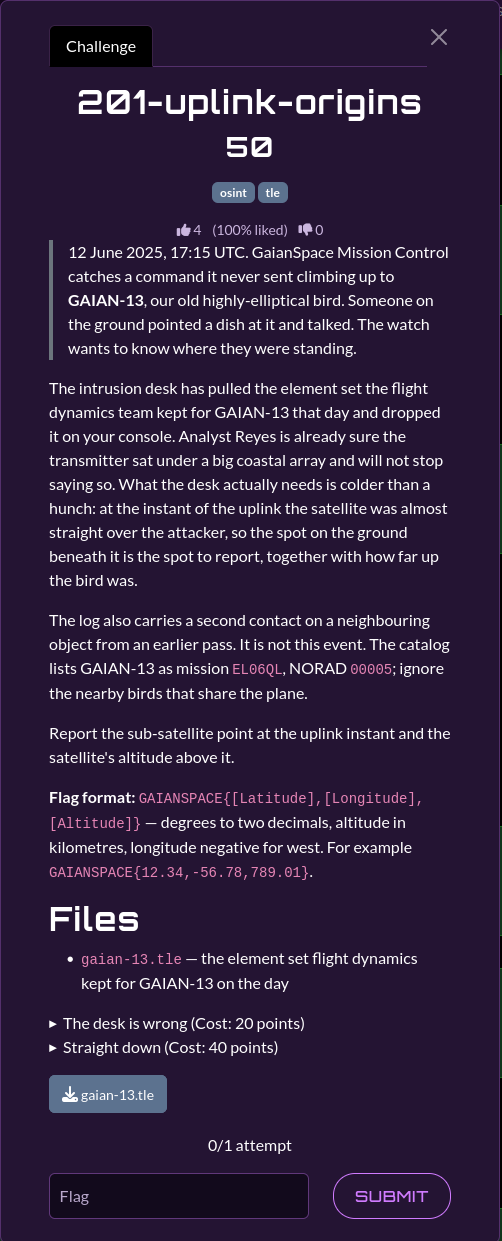
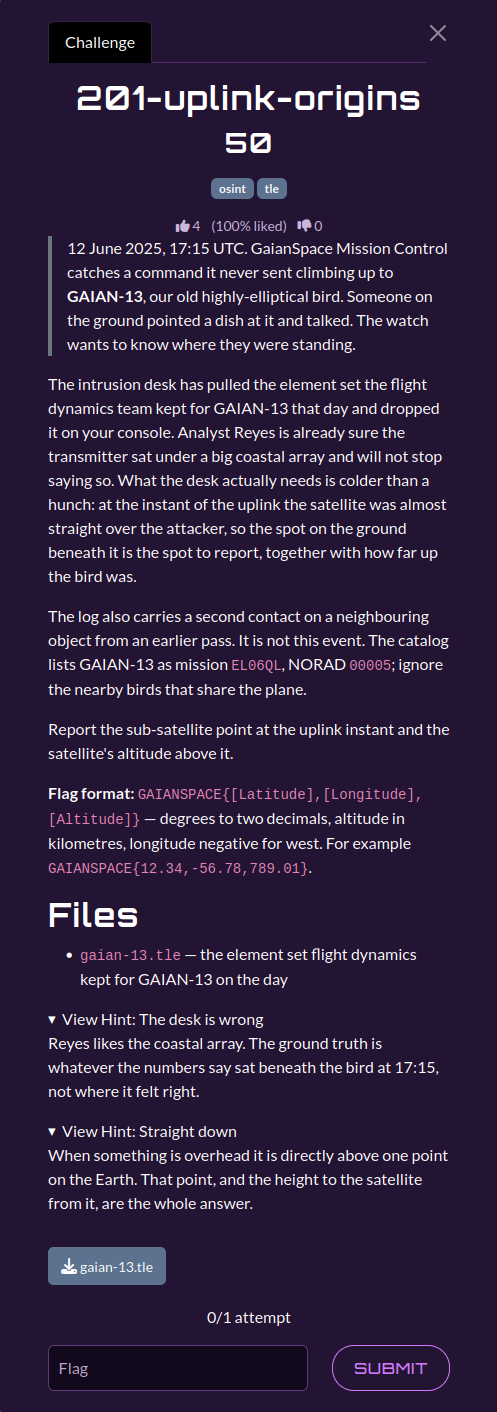
Update README.md

diff --git a/02-echoes-of-espionage/206-gpredict-secret/README.md b/02-echoes-of-espionage/206-gpredict-secret/README.md
@@ -17,6 +17,13 @@ Put the signature back together.
 
 **Attachments:** `gaian-13-relay.tle` — the second element set left on the laptop, `pass_capture.png` — a screen grab of a pass, `relay.mod` — the saved tracking module, `vela.qth` — the station location file
 
+## Hints
+
+Two hints were released during the event:
+
+1. **Signed in three** — No one file has the whole thing. One fragment rides with the object, one is noted in the saved module, one is written on the screen grab.
+2. **Say it out loud** — The three fragments are not in random order. Put them together and they read like something a watcher would be called.
+
 ## Solution
 
 ### Steps

diff --git a/02-echoes-of-espionage/205-backdoor-from-space/README.md b/02-echoes-of-espionage/205-backdoor-from-space/README.md
@@ -17,6 +17,13 @@ Recover the attacker's next move.
 
 **Attachments:** `ground_c2_traffic.pcap` — the span monitor's capture, just after the downlink
 
+## Hints
+
+Two hints were released during the event:
+
+1. **Read the whole exchange** — The reply is scrambled with a stream cipher. The caller handed over the material for that scramble in its own request, in a header that does not belong on a normal upload.
+2. **Nothing labels it** — No field tells you the cipher or the key. The reply is base64 over raw ciphertext; the key is the session value the caller sent. A common stream cipher and that value is the whole trick.
+
 ## Solution
 
 ### Steps

diff --git a/02-echoes-of-espionage/207-lost-signal-mars/README.md b/02-echoes-of-espionage/207-lost-signal-mars/README.md
@@ -17,6 +17,13 @@ Recover what the distant transmitter kept repeating.
 
 **Attachments:** `beacon_notes.md` — the operator's settings for the capture, `deep_space_capture.f32` — the raw recording from the post
 
+## Hints
+
+Two hints were released during the event:
+
+1. **Find the beat** — The burst repeats on a fixed stride, but nothing tells you the stride. Let the recording line up against a shifted copy of itself and the stride will show.
+2. **Changes, not levels** — Once the repeats are stacked and the noise is gone, do not read the levels. Read where the signal flips and where it holds. One of those is a one.
+
 ## Solution
 
 ### Steps

diff --git a/02-echoes-of-espionage/203-signal-secrets/README.md b/02-echoes-of-espionage/203-signal-secrets/README.md
@@ -17,6 +17,13 @@ Work the recording in two passes and read the operator's parting line.
 
 **Attachments:** `downlink_signal.wav` — the array's recording of the malicious downlink
 
+## Hints
+
+Two hints were released during the event:
+
+1. **Look, don't listen** — Spread the sound out by pitch over time. Something is painted across the band. It is not the flag; it is a key, and it tells you what the key is for.
+2. **Under the floor** — The flag rides in the quietest part of every sample, the part that never changes the sound. Pull that out and undo it with what the picture gave you.
+
 ## Solution
 
 ### Steps

diff --git a/02-echoes-of-espionage/201-uplink-origins/README.md b/02-echoes-of-espionage/201-uplink-origins/README.md
@@ -19,6 +19,13 @@ Report the sub-satellite point at the uplink instant and the satellite's altitud
 
 **Attachments:** `gaian-13.tle` — the element set flight dynamics kept for GAIAN-13 on the day
 
+## Hints
+
+Two hints were released during the event:
+
+1. **The desk is wrong** — Reyes likes the coastal array. The ground truth is whatever the numbers say sat beneath the bird at 17:15, not where it felt right.
+2. **Straight down** — When something is overhead it is directly above one point on the Earth. That point, and the height to the satellite from it, are the whole answer.
+
 ## Solution
 
 ### Steps

diff --git a/02-echoes-of-espionage/202-downlink-deception/README.md b/02-echoes-of-espionage/202-downlink-deception/README.md
@@ -27,6 +27,13 @@ Receiving-site roster (lat, lon; west is negative):
 
 **Attachments:** `gaian-13.tle` — the element set for GAIAN-13; `telemetry_capture.bin` — the captured downlink telemetry frame
 
+## Hints
+
+Two hints were released during the event:
+
+1. **Dishes miss things** — Reyes trusts the biggest antennas. Being big does not help if the satellite is below your horizon. Check who could actually see it.
+2. **The frame is honest** — You do not have to guess the moment. The capture writes down when it arrived, in plain characters, near the top.
+
 ## Solution
 
 ### Steps

diff --git a/02-echoes-of-espionage/204-payload-unleashed/README.md b/02-echoes-of-espionage/204-payload-unleashed/README.md
@@ -17,6 +17,13 @@ Make the decoder give up what the attacker armed.
 
 **Attachments:** `ground_server` — the station's telemetry decoder (Linux x86-64 ELF)
 
+## Hints
+
+Two hints were released during the event:
+
+1. **It already knows** — The decoder carries the key it is waiting for. It does not store it where a quick glance would find it. The right key is reachable without guessing.
+2. **Two coats of paint** — The key is hidden under one simple operation. What it reveals is hidden under the key.
+
 ## Solution
 
 ### Steps
